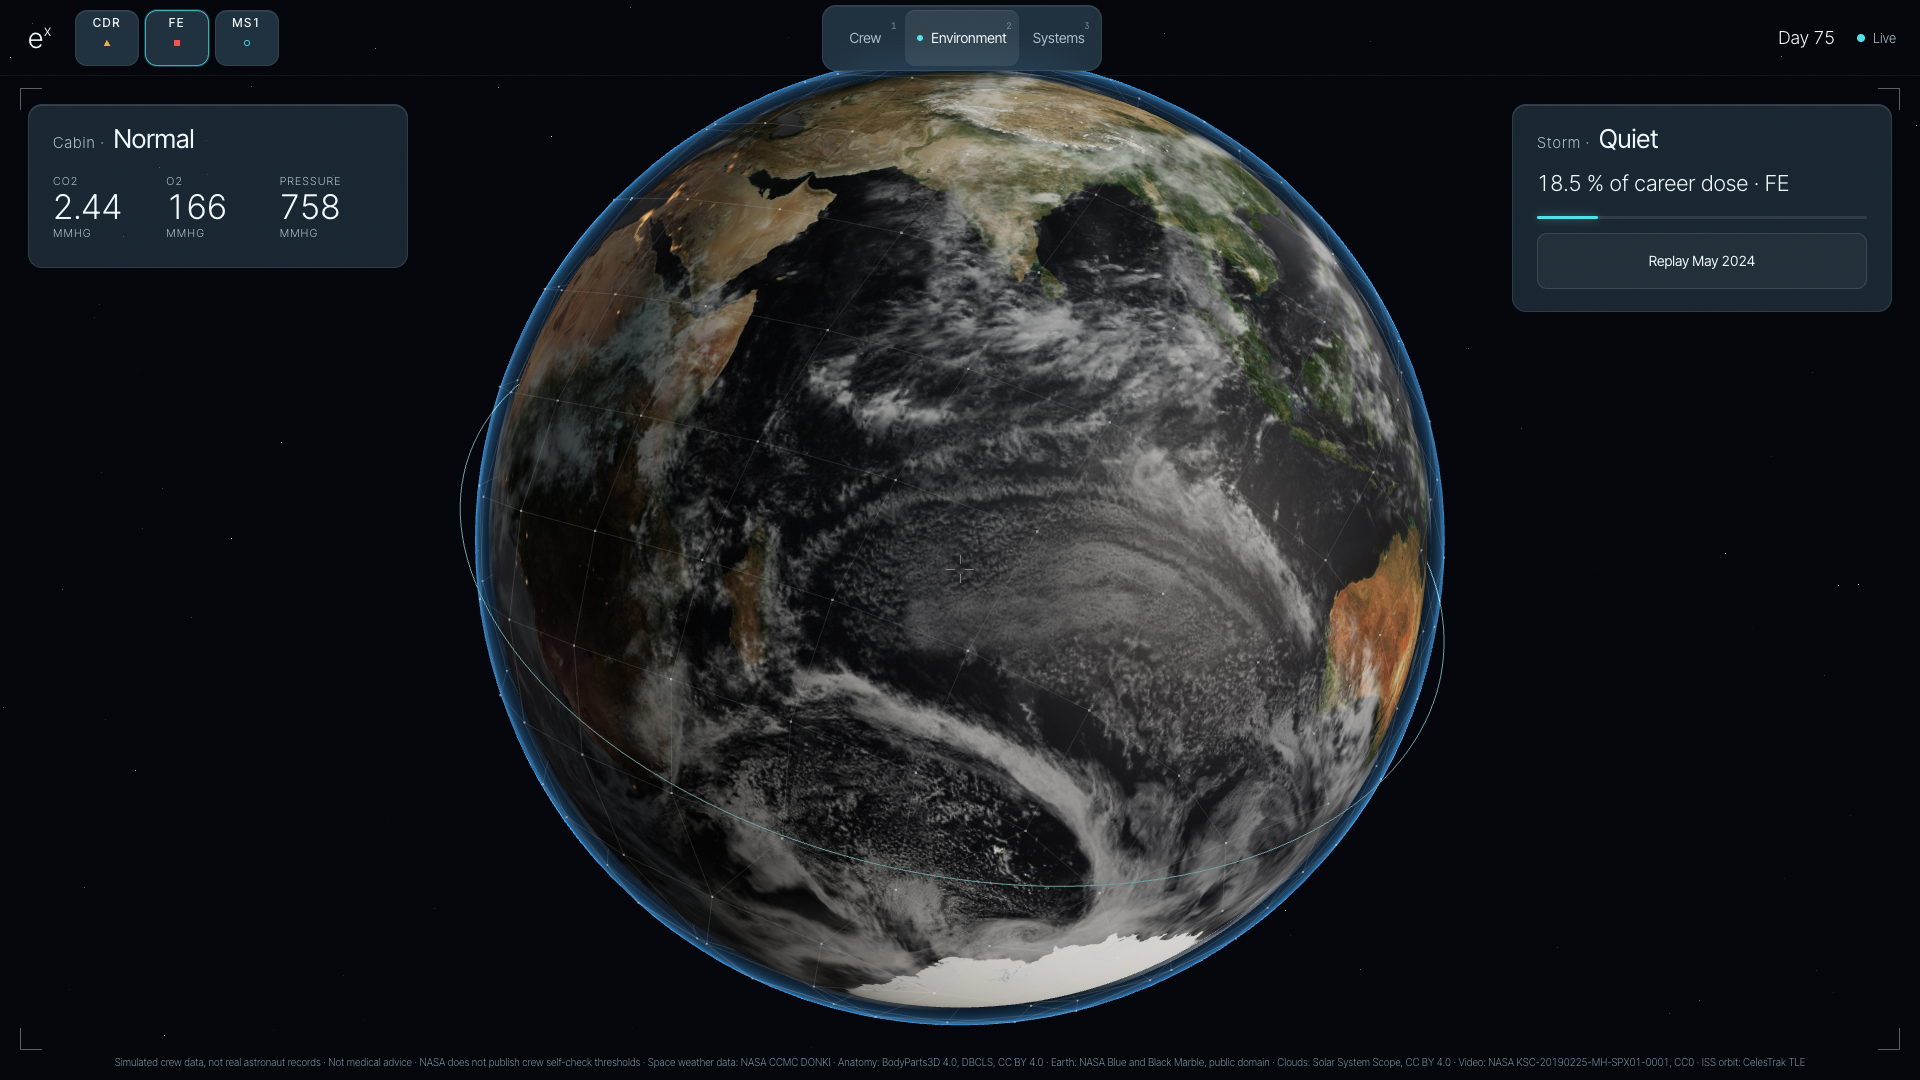
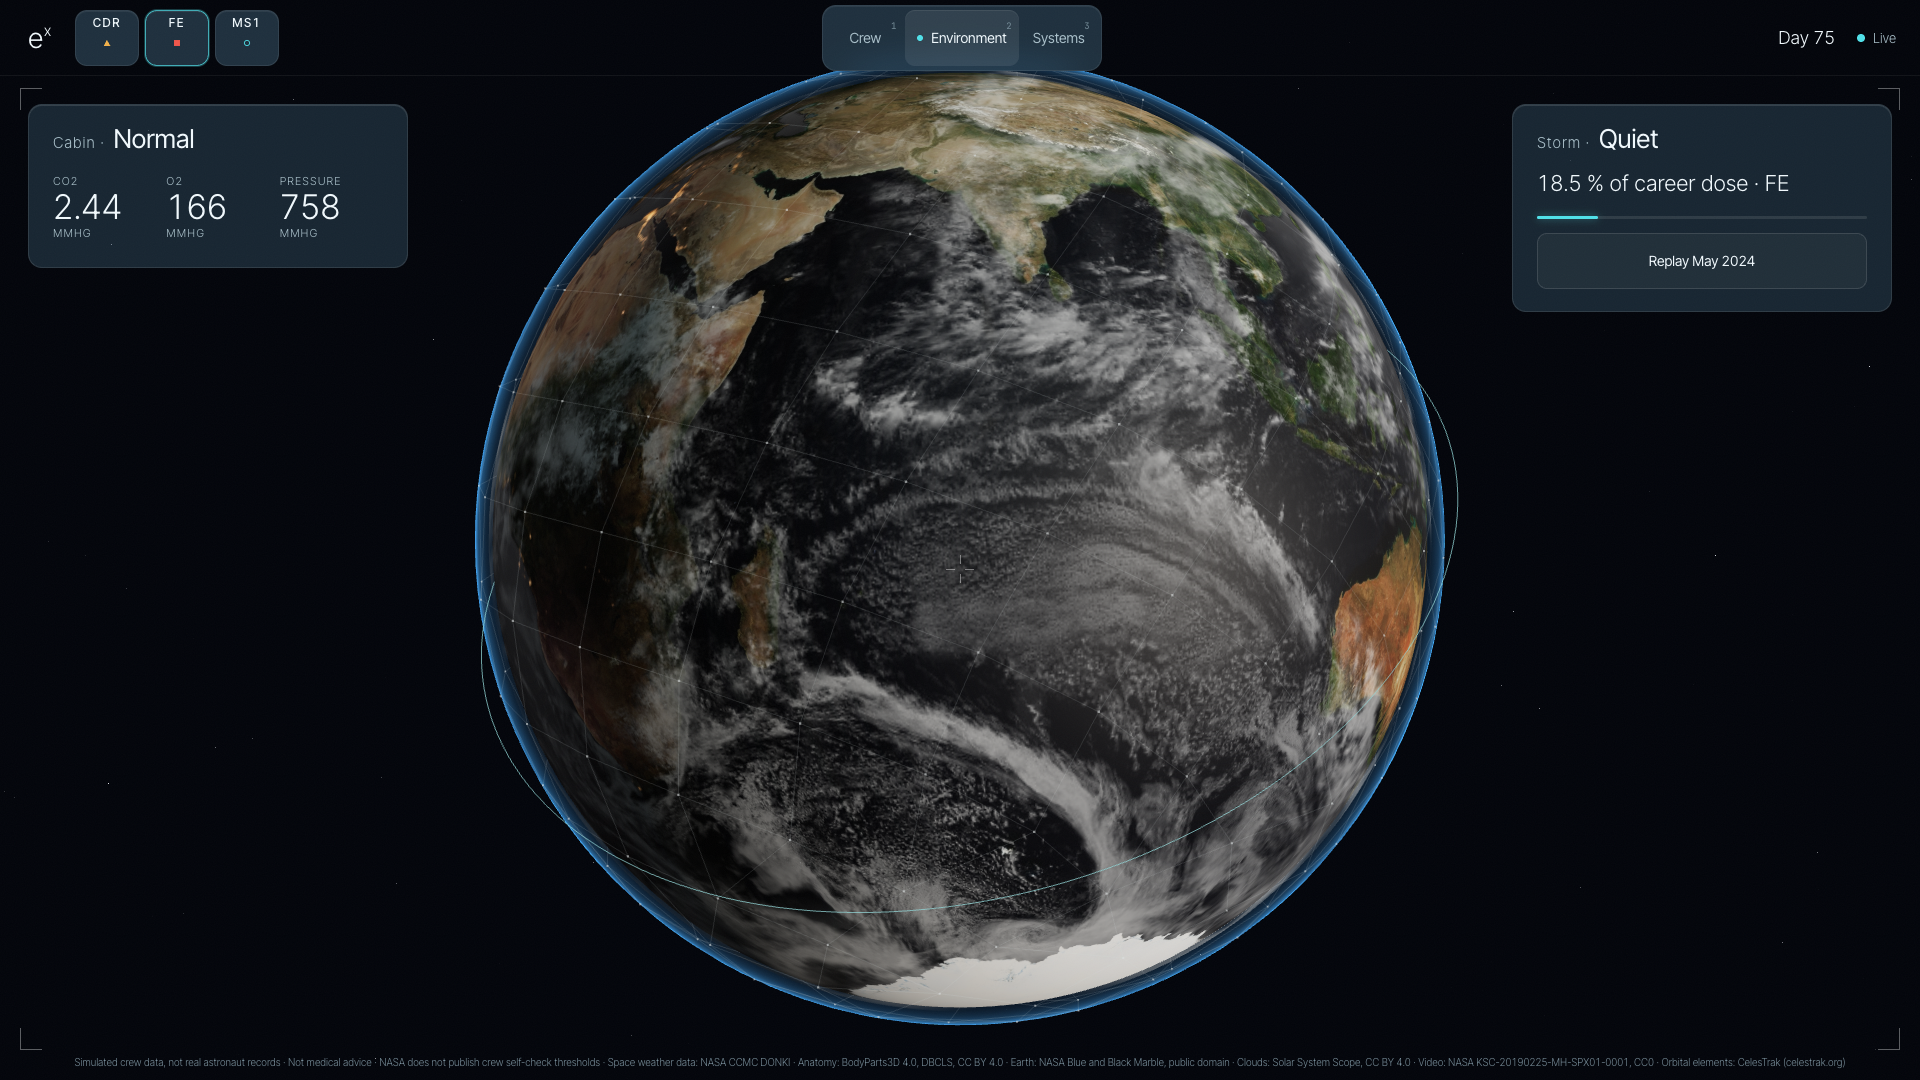
ISS track from server SGP4 points when up (fresh TLE offline), CelesTrak credit, one suggested activity in Check-in

Changed region(s): [[0.3125, 0.0917, 0.75, 0.9167], [0.0312, 0.9778, 0.9688, 1.0]]

diff --git a/web/src/console/Globe.tsx b/web/src/console/Globe.tsx
@@ -4,6 +4,7 @@
 // when the crew uses the rotate dial.
 import { Suspense, useEffect, useMemo, useRef, useState, type ReactNode } from 'react';
 import { useFrame } from '@react-three/fiber';
+import { getJson, hasServer } from '../data/http';
 import { Html, useTexture } from '@react-three/drei';
 import * as THREE from 'three';
 
@@ -261,11 +262,30 @@ function propagate(k: Tle, t: number): { lat: number; lon: number; alt: number }
   return { lat: (Math.asin(z / r) * 180) / Math.PI, lon: ((((lon * 180) / Math.PI + 540) % 360) + 360) % 360 - 180, alt: r - RE };
 }
 
-/** One orbit of the ISS ground track from now, from public/orbits/iss.tle. */
+/**
+ * One orbit of the ISS ground track from now. Server up: SGP4 points from /api/orbit (geodetic).
+ * Offline: two-body propagation of the bundled CelesTrak TLE (good for a few days of age).
+ */
 export function useIssTrack(at?: Date): { points: Float32Array; now: [number, number, number] } | null {
-  const [tle, setTle] = useStateTle();
-  void setTle;
-  return useMemo(() => {
+  const [tle] = useStateTle();
+  const [srv, setSrv] = useState<{ points: Float32Array; now: [number, number, number] } | null>(null);
+  useEffect(() => {
+    let alive = true;
+    void hasServer().then((up) => {
+      if (!up) return;
+      getJson<{ points: { lat: number; lon: number; alt_km: number }[] }>('api/orbit?subject=iss&minutes=95&step_s=30', 20000)
+        .then((o) => {
+          if (!alive || !o.points?.length) return;
+          const pts = o.points.flatMap((p) => ll(p.lat, p.lon, 1 + p.alt_km / 6371));
+          setSrv({ points: new Float32Array(pts), now: ll(o.points[0].lat, o.points[0].lon, 1 + o.points[0].alt_km / 6371) });
+        })
+        .catch(() => undefined);
+    });
+    return () => {
+      alive = false;
+    };
+  }, []);
+  const local = useMemo(() => {
     if (!tle) return null;
     const t0 = (at ?? new Date()).getTime();
     const period = (2 * Math.PI) / tle.n;
@@ -273,16 +293,17 @@ export function useIssTrack(at?: Date): { points: Float32Array; now: [number, nu
     let now: [number, number, number] = [0, 0, 0];
     for (let s = 0; s <= 180; s++) {
       const p = propagate(tle, t0 + (s / 180) * period * 1000);
-      const v = ll(p.lat, p.lon, 1 + p.alt / RE);
+      const v = ll(p.lat, p.lon, 1 + p.alt / 6371);
       pts.push(...v);
       if (s === 0) now = v;
     }
     return { points: new Float32Array(pts), now };
   }, [tle, at]);
+  return srv ?? local;
 }
 
 let tleCache: Promise<Tle | null> | null = null;
-function useStateTle(): [Tle | null, (t: Tle | null) => void] {
+function useStateTle(): [Tle | null] {
   const [tle, setTle] = useState<Tle | null>(null);
   useEffect(() => {
     tleCache ??= fetch(`${import.meta.env.BASE_URL}orbits/iss.tle`).then((r) => (r.ok ? r.text() : '')).then(parseTle, () => null);
@@ -292,5 +313,5 @@ function useStateTle(): [Tle | null, (t: Tle | null) => void] {
       alive = false;
     };
   }, []);
-  return [tle, setTle];
+  return [tle];
 }

diff --git a/web/src/globe-lab/Sky.tsx b/web/src/globe-lab/Sky.tsx
@@ -49,7 +49,7 @@ void main() {
   // size grows with the cube root of flux; faint stars stay 1-2 px and lose alpha instead
   float s = clamp(1.6 + 2.6 * pow(aFlux, 0.33), 1.6, 7.0);
   gl_PointSize = s * uPx;
-  vA = clamp(aFlux * 3.0, 0.07, 1.0);
+  vA = clamp(aFlux * 6.0, 0.16, 1.0);
   vColor = aColor * uGain * (0.6 + 2.2 * clamp(aFlux, 0.0, 1.5));
 }`;
 const starFrag = /* glsl */ `
@@ -130,7 +130,7 @@ export function Sky() {
     milky.colorSpace = THREE.SRGBColorSpace;
     moonMap.colorSpace = THREE.SRGBColorSpace;
     moonMap.anisotropy = 8;
-    const mw = new THREE.ShaderMaterial({ vertexShader: skyVert, fragmentShader: skyFrag, uniforms: { uMap: { value: milky }, uGain: { value: 0.09 } }, side: THREE.BackSide, depthTest: false, depthWrite: false });
+    const mw = new THREE.ShaderMaterial({ vertexShader: skyVert, fragmentShader: skyFrag, uniforms: { uMap: { value: milky }, uGain: { value: 0.16 } }, side: THREE.BackSide, depthTest: false, depthWrite: false });
     const st = new THREE.ShaderMaterial({ vertexShader: starVert, fragmentShader: starFrag, uniforms: { uPx: { value: 1 }, uGain: { value: 1 } }, transparent: false, blending: THREE.AdditiveBlending, depthTest: false, depthWrite: false });
     const glareTex = radialTexture([[0, 'rgba(255,250,240,1)'], [0.06, 'rgba(255,244,225,0.85)'], [0.2, 'rgba(255,226,190,0.22)'], [0.5, 'rgba(255,210,170,0.05)'], [1, 'rgba(255,200,160,0)']]);
     const gm = new THREE.SpriteMaterial({ map: glareTex, blending: THREE.AdditiveBlending, depthTest: false, depthWrite: false, transparent: true, color: new THREE.Color(3, 3, 3) });
@@ -184,7 +184,7 @@ export function Sky() {
     const inAir = 1 - THREE.MathUtils.smoothstep(alt, (60 / R_KM) * 1.6, (160 / R_KM) * 1.6);
     const sunUp = THREE.MathUtils.smoothstep(tmp.cam.clone().normalize().dot(SUN_LOCAL), -0.15, 0.1);
     const dim = 1 - 0.92 * inAir * sunUp;
-    mats.mw.uniforms.uGain.value = 0.09 * dim;
+    mats.mw.uniforms.uGain.value = 0.16 * dim;
     mats.st.uniforms.uGain.value = dim;
     mats.st.uniforms.uPx.value = gl.getPixelRatio();
 

diff --git a/web/src/console/CheckinPanel.tsx b/web/src/console/CheckinPanel.tsx
@@ -1,7 +1,7 @@
 // Check-in: the five 1-5 self-report scales (words on every step, no emojis). Stored by
 // data/mind (local, queued for the server). Mood feeds the brain region.
 import { useEffect, useState } from 'react';
-import { getWeek } from '../data/live';
+import { getActivity, getWeek, logActivity, type Activity } from '../data/live';
 import { SCALES, streak, useMind } from '../data/mind';
 import { Panel } from './ui';
 import { useConsole } from './useConsole';
@@ -13,9 +13,12 @@ export function CheckinPanel({ className = '' }: { className?: string }) {
   const date = cd?.mission.today;
   const pull = mind.pull;
   const [week, setWeek] = useState<Record<string, number> | null>(null);
+  const [act, setAct] = useState<Activity | null>(null);
+  const [actDone, setActDone] = useState(false);
   useEffect(() => {
     if (id && date) void pull(id, date);
     if (id) void getWeek(id).then(setWeek);
+    if (id && date) void getActivity(id, date).then(setAct);
   }, [id, date, pull]);
   if (!cd || !cv) return null;
   const report = mind.reports[cv.m.id]?.[cd.mission.today] ?? {};
@@ -36,6 +39,11 @@ export function CheckinPanel({ className = '' }: { className?: string }) {
           </div>
         </div>
       ))}
+      {act && (
+        <button type="button" className="btn" style={{ marginTop: 10 }} disabled={actDone} onClick={() => void logActivity(act.id, cv.m.id).then(setActDone)}>
+          {actDone ? `${act.label} · done` : `Try: ${act.label}${act.minutes ? ` (${act.minutes} min)` : ''}`}
+        </button>
+      )}
       {week && (
         <p className="note" style={{ marginTop: 8 }}>
           This week: {SCALES.map((s) => (week[s.key] != null ? `${s.label} ${week[s.key].toFixed(1)}` : null)).filter(Boolean).join(' · ')}

diff --git a/web/src/globe-lab/GlobeControls.tsx b/web/src/globe-lab/GlobeControls.tsx
@@ -47,6 +47,7 @@ export function GlobeControls({ initial, home = initial, earth, follow }: Props)
   sizeRef.current = size;
 
   const flyTo = (to: LookAt) => {
+    following.current = false;
     omega.current.set(0, 0, 0);
     zoomPending.current.log = 0;
     clampState(to);
@@ -260,10 +261,8 @@ export function GlobeControls({ initial, home = initial, earth, follow }: Props)
       if (k >= 1) fly.current = null;
     } else if (following.current && follow) {
       const p = follow();
-      if (p) {
-        const want = ll(p.lat, p.lon);
-        state.current = rotateState(state.current, grabRotation(state.current.target, want));
-      }
+      // track the sub-satellite point; heading stays as the user set it (north up by default)
+      if (p) state.current.target.copy(ll(p.lat, p.lon));
     }
     // inertia (frame-rate independent decay, ~0.92 per 60 Hz frame)
     const w = omega.current;

diff --git a/web/src/data/live.ts b/web/src/data/live.ts
@@ -49,3 +49,20 @@ export async function getWeek(subject: string): Promise<Record<string, number> |
     () => null,
   );
 }
+
+export interface Activity {
+  id: string;
+  label: string;
+  minutes?: number;
+}
+
+/** The server's first suggested self-help activity (the ones that help an open alert come first). */
+export async function getActivity(subject: string, date: string): Promise<Activity | null> {
+  if (!(await hasServer())) return null;
+  return getJson<{ activities?: Activity[] }>(`api/activities?subject=${encodeURIComponent(subject)}&date=${date}`).then((a) => a.activities?.[0] ?? null, () => null);
+}
+
+export async function logActivity(id: string, subject: string): Promise<boolean> {
+  if (!(await hasServer())) return false;
+  return postJson(`api/activities/${encodeURIComponent(id)}/events`, { subject }).then(() => true, () => false);
+}

diff --git a/web/src/console/Shell.tsx b/web/src/console/Shell.tsx
@@ -121,7 +121,7 @@ export function Shell() {
 
       <footer className="cx-credits">
         {[...DISCLAIMERS, data ? `Space weather data: ${data.storm.meta.data_credit}` : ''].filter(Boolean).join('  ·  ')}
-        {'  ·  '}Anatomy: BodyParts3D 4.0, DBCLS, CC BY 4.0 · Earth: NASA Blue and Black Marble, public domain · Clouds: Solar System Scope, CC BY 4.0 · Video: NASA KSC-20190225-MH-SPX01-0001, CC0 · ISS orbit: CelesTrak TLE
+        {'  ·  '}Anatomy: BodyParts3D 4.0, DBCLS, CC BY 4.0 · Earth: NASA Blue and Black Marble, public domain · Clouds: Solar System Scope, CC BY 4.0 · Video: NASA KSC-20190225-MH-SPX01-0001, CC0 · Orbital elements: CelesTrak (celestrak.org)
       </footer>
       <div className="cx-grain" aria-hidden />
 

diff --git a/web/src/globe-lab/Earth.tsx b/web/src/globe-lab/Earth.tsx
@@ -143,7 +143,7 @@ export function Earth() {
     `${base}earth-day-8k.jpg`,
     `${base}earth-night-4k.jpg`,
     `${base}earth-normal-4k.jpg`,
-    `${base}earth-water-4k.png`,
+    `${base}earth-water-8k.png`,
     `${base}earth-clouds-8k.jpg`,
   ]);
   const mesh = useRef<THREE.Mesh>(null);

diff --git a/web/src/globe-lab/SPEC.md b/web/src/globe-lab/SPEC.md
@@ -68,7 +68,7 @@ state every frame; nothing else moves the camera.
 | `earth-day-hd-{0,1,2,3}.jpg` | same source at 16384x8192 split into 4 quadrants: 0 = lon -180..0 lat 0..90, 1 = lon 0..180 lat 0..90, 2 = lon -180..0 lat -90..0, 3 = lon 0..180 lat -90..0 | 8192x4096 each |
 | `earth-night-4k.jpg` | NASA Black Marble 2016 | 4096x2048 |
 | `earth-normal-4k.jpg` | tangent-space normal map from topography (or SSS normal map, CC BY 4.0) | 4096x2048 |
-| `earth-water-4k.png` | ocean/water mask, white = water (8-bit gray) | 4096x2048 |
+| `earth-water-8k.png` | ocean/water mask, white = water (8-bit gray) | 8192x4096 |
 | `earth-clouds-8k.jpg` | cloud cover, white = cloud (8-bit gray) | 8192x4096 |
 | `moon-2k.jpg` | NASA CGI Moon Kit (LRO) colour, lon 0 at image centre | 2048x1024 |
 | `milkyway-4k.jpg` | NASA SVS Deep Star Maps 2020, celestial (equatorial) coords, tone-mapped so stars are faint and the Milky Way glow carries; RA 0 at centre, RA increases to the LEFT, Dec +90 at top | 4096x2048 |
